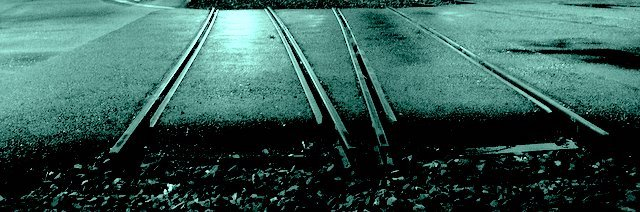
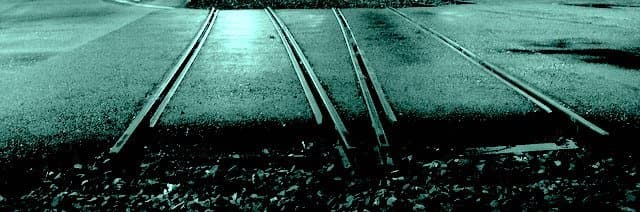
use squoosh.app to optimize image for more resolutions

diff --git a/fiction/catch_and_the_metro.html b/fiction/catch_and_the_metro.html
@@ -32,7 +32,13 @@
 
   <body>
     <h1>Catch and the metro</h1>
-    <img alt="abandoned rails" src="rails.jpg" width="640" height="212" />
+    <img
+      alt="abandoned rails"
+      src="rails.jpg"
+      srcset="rails-large.jpg 1600w, rails.jpg 640w"
+      width="640"
+      height="212"
+    />
     <article>
       <p>
         It was at my grandma's where my story started to unfold. I realized that

diff --git a/fiction/lopta_v_metre.html b/fiction/lopta_v_metre.html
@@ -32,7 +32,13 @@
 
   <body>
     <h1>Lopta v metre</h1>
-    <img alt="abandoned rails" src="rails.jpg" width="640" height="212" />
+    <img
+      alt="abandoned rails"
+      src="rails.jpg"
+      srcset="rails-large.jpg 1600w, rails.jpg 640w"
+      width="640"
+      height="212"
+    />
     <article>
       <p>
         Bolo to na návšteve u starej mamy, keď sa začali diať veci. Najprv som
